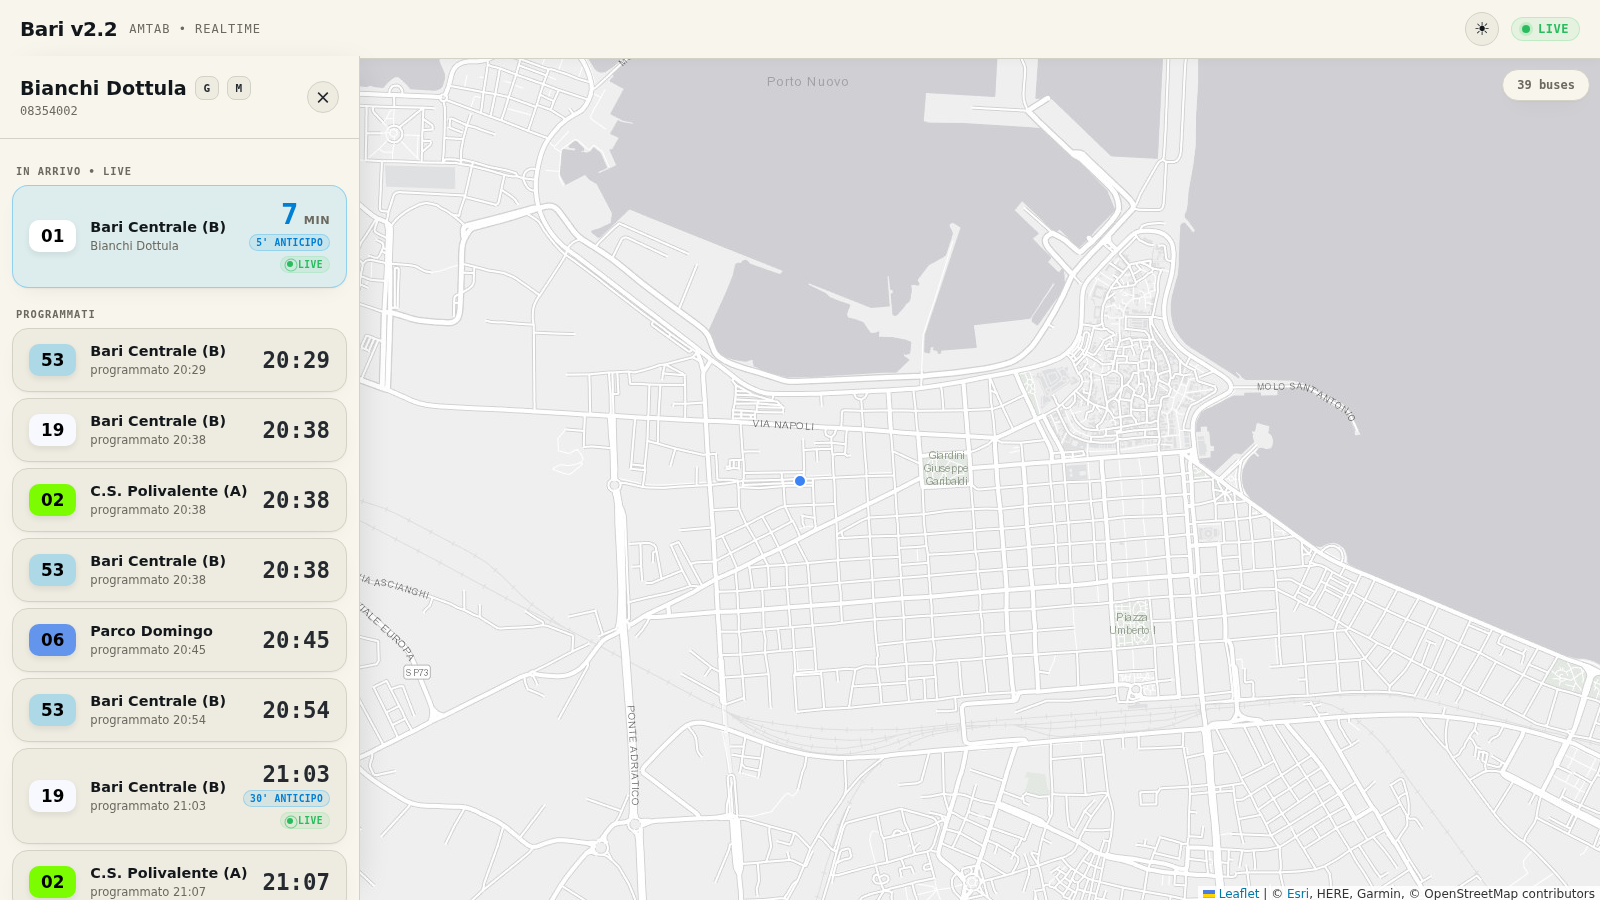
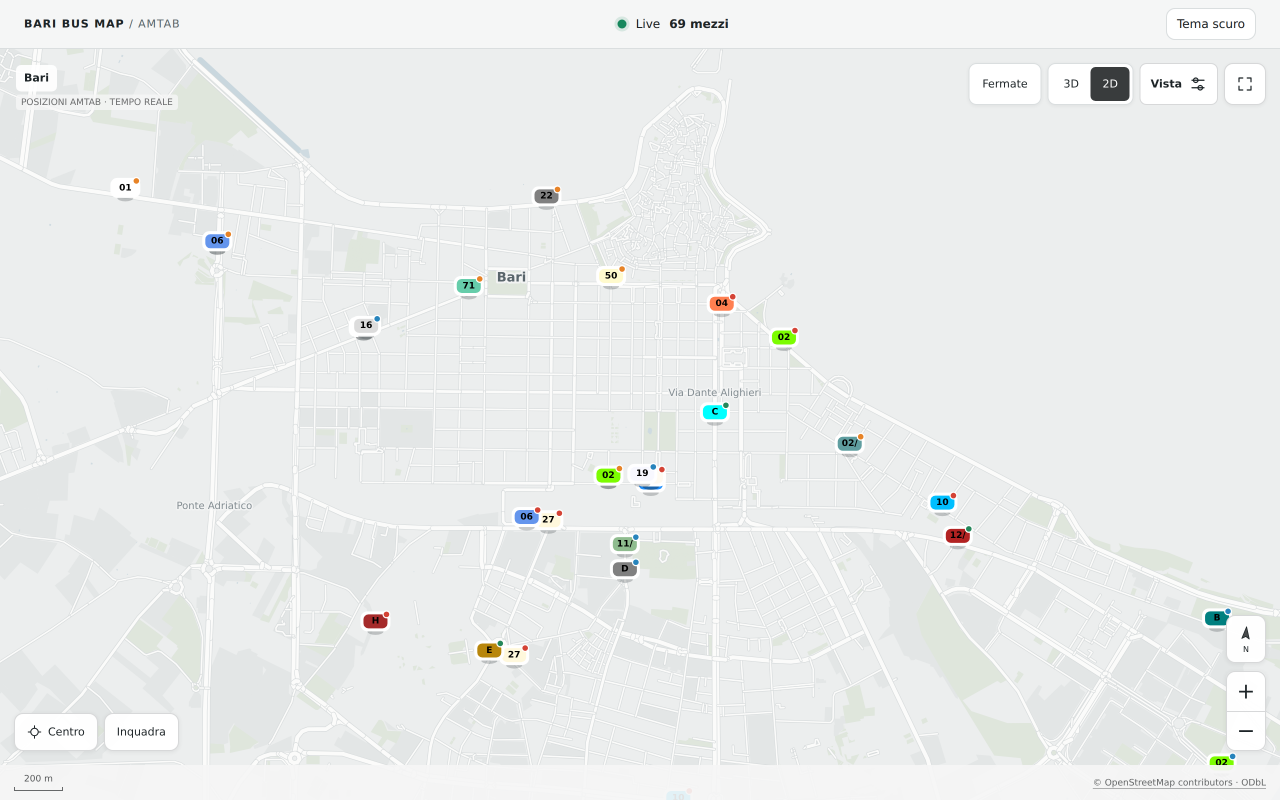
feat(map): collapse passed stops and refresh README screenshots

diff --git a/mobilita/index.html b/mobilita/index.html
@@ -2792,6 +2792,40 @@ body.live-map-mode .live-card-section {
   letter-spacing: .08em;
   text-transform: uppercase;
 }
+body.live-map-mode .live-passed-stops {
+  margin: 8px 0 2px;
+  padding: 0;
+  border: 0;
+  border-top: 1px solid var(--border);
+  background: transparent;
+}
+body.live-map-mode .live-passed-stops > summary {
+  display: flex;
+  align-items: center;
+  gap: 8px;
+  min-height: 38px;
+  padding: 8px 2px;
+  color: var(--muted);
+  font-size: 11px;
+  font-weight: 700;
+  cursor: pointer;
+  list-style: none;
+}
+body.live-map-mode .live-passed-stops > summary::-webkit-details-marker { display: none; }
+body.live-map-mode .live-passed-stops > summary::before {
+  content: "+";
+  display: inline-grid;
+  width: 17px;
+  height: 17px;
+  place-items: center;
+  border: 1px solid var(--border);
+  border-radius: 50%;
+  color: var(--ink);
+  font-size: 13px;
+  line-height: 1;
+}
+body.live-map-mode .live-passed-stops[open] > summary::before { content: "−"; }
+body.live-map-mode .live-passed-rows { opacity: .78; }
 body.live-map-mode .live-stop-row {
   display: grid;
   grid-template-columns: minmax(0, 1fr) auto;
@@ -5518,6 +5552,7 @@ let liveRoute = null, liveRouteShapeId = null, liveRouteRequest = 0, stopsVisibl
 let liveStops = [], liveStopsById = new Map(), liveStopInfo = {}, liveRouteShapes = {}, liveShapeStops = {};
 let liveEtas = {}, liveTripDelays = {}, liveStatus = {}, liveStopTimetables = new Map();
 const liveShapeCache = new Map(), liveShapePending = new Map(), liveRouteStopCache = new Map(), liveTripDetails = new Map(), liveTripTimetables = new Map(), liveTripPending = new Map();
+const expandedPastStopLists = new Set();
 function livePosition(vehicle, now = Date.now()) {
   const t = Math.max(0, Math.min(1, (now - vehicle._startedAt) / 10000));
   if (vehicle._shapePoints?.length > 1 && Number.isFinite(vehicle._fromShapeIndex) && Number.isFinite(vehicle._toShapeIndex)) {
@@ -5677,6 +5712,7 @@ function liveTripStopList(vehicle, trip) {
   let currentIndex = -1;
   const points = vehicle?._shapePoints || (shapeId && liveShapeCache.get(shapeId));
   if (vehicle && points?.length) currentIndex = closestShapeIndex(vehicle, points);
+  const currentStopIndex = vehicle ? sequence.indexOf(String(vehicle.stopId || "")) : -1;
   const routeStops = shapeId && points ? routeStopsForShape(shapeId, points) : [];
   const rows = sequence.map((stopId, index) => {
     const stop = liveStopsById.get(stopId) || { id: stopId, name: stopId, lat: NaN, lon: NaN };
@@ -5685,7 +5721,9 @@ function liveTripStopList(vehicle, trip) {
     const eta = etas[stopId]?.[String(vehicle?.rid || trip?.rid)];
     const estimate = realtime?.time != null ? formatEpochTime(realtime.time) : (eta && (!vehicle || String(eta.vid) === String(vehicle.vid ?? vehicle.id)) ? `tra ${eta.eta} min` : "—");
     const routeStop = routeStops.find((entry) => entry.stop.id === stopId);
-    const passed = vehicle && ((routeStop && currentIndex >= 0 && routeStop.pointIndex < currentIndex) || (!routeStop && vehicle.currentStopSequence != null && timetableByStop.get(stopId)?.sequence < vehicle.currentStopSequence));
+    const passed = vehicle && (currentStopIndex >= 0
+      ? index < currentStopIndex
+      : ((routeStop && currentIndex >= 0 && routeStop.pointIndex < currentIndex) || (!routeStop && vehicle.currentStopSequence != null && timetableByStop.get(stopId)?.sequence < vehicle.currentStopSequence)));
     return { stop, index, scheduled: formatGtfsTime(scheduled), estimate: passed ? "Già passata" : estimate, passed, delay: realtime?.delay ?? vehicle?.delay ?? null, eta: eta && (!vehicle || String(eta.vid) === String(vehicle.vid ?? vehicle.id)) ? eta.eta : null };
   });
   return rows;
@@ -5698,15 +5736,38 @@ function renderLiveTimeline(parent, vehicle, trip) {
     if (tid) fetchLiveTripData(tid);
     return;
   }
-  liveSection(parent, "Fermate · programmato / stimato");
-  rows.forEach((row) => {
+  const upcoming = rows.filter((row) => !row.passed);
+  const passed = rows.filter((row) => row.passed);
+  if (upcoming.length) liveSection(parent, "Prossime fermate · programmato / stimato");
+  else if (!passed.length) liveSection(parent, "Fermate · programmato / stimato");
+  const appendRow = (row, target = parent) => {
     const schedule = row.scheduled !== "—" ? `Programmato ${row.scheduled}` : "Orario programmato n/d";
     const estimate = row.estimate !== "—" ? ` · ${row.estimate}` : "";
     const detail = `${schedule}${estimate}${row.passed ? "" : delayState(row.delay) === "ontime" ? "" : ` · ${delayLabel(row.delay)}`}`;
-    liveStopRow(parent, row.stop.name, detail, row.eta != null && !row.passed ? `${row.eta} min` : (row.estimate === "Già passata" ? "Passata" : row.estimate), () => {
+    liveStopRow(target, row.stop.name, detail, row.eta != null && !row.passed ? `${row.eta} min` : (row.estimate === "Già passata" ? "Passata" : row.estimate), () => {
       if (Number.isFinite(Number(row.stop.lat)) && Number.isFinite(Number(row.stop.lon))) showLiveStop(stopPosition(row.stop));
     }, `${row.stop.name}, programmato ${row.scheduled}, stimato ${row.estimate}`, vehicle?.rid || trip?.rid);
-  });
+  };
+  upcoming.forEach((row) => appendRow(row));
+  if (passed.length) {
+    const key = tid || String(vehicle?.vid ?? vehicle?.id ?? "vehicle");
+    const disclosure = document.createElement("details");
+    disclosure.className = "live-passed-stops";
+    disclosure.open = expandedPastStopLists.has(key);
+    const summary = document.createElement("summary");
+    summary.textContent = `${disclosure.open ? "Nascondi" : "Mostra"} ${passed.length} fermate già passate`;
+    disclosure.append(summary);
+    const pastRows = document.createElement("div");
+    pastRows.className = "live-passed-rows";
+    passed.forEach((row) => appendRow(row, pastRows));
+    disclosure.append(pastRows);
+    parent.append(disclosure);
+    disclosure.addEventListener("toggle", () => {
+      summary.textContent = `${disclosure.open ? "Nascondi" : "Mostra"} ${passed.length} fermate già passate`;
+      if (disclosure.open) expandedPastStopLists.add(key);
+      else expandedPastStopLists.delete(key);
+    });
+  }
 }
 function renderLiveVehicleCard(vehicle) {
   if (!vehicle || !selectedLiveVehicle) return;
@@ -5732,8 +5793,11 @@ function renderLiveVehicleCard(vehicle) {
   } else if (vehicle.spd != null) {
     const speed = document.createElement("div"); speed.textContent = `Velocità ${Math.max(0, Number(vehicle.spd) * 3.6).toFixed(0)} km/h`; summary.append(speed);
   }
-  const list = $("live-card-stops"); list.replaceChildren();
+  const list = $("live-card-stops");
+  const scrollTop = list.scrollTop;
+  list.replaceChildren();
   renderLiveTimeline(list, vehicle, { tid: id && vehicle.tid, rid });
+  list.scrollTop = scrollTop;
   $("live-bus-card").hidden = false;
 }
 async function loadLiveStopTimetable(stopId) {

diff --git a/README.md b/README.md
@@ -7,9 +7,12 @@
 [![ESLint](https://github.com/pancake37/bari-bus-map/actions/workflows/eslint.yml/badge.svg)](https://github.com/pancake37/bari-bus-map/actions/workflows/eslint.yml)
 ![Node](https://img.shields.io/badge/node-%3E%3D18-339933?logo=node.js&logoColor=white)
 ![Dependencies](https://img.shields.io/badge/runtime%20dependencies-0-brightgreen)
-![Leaflet](https://img.shields.io/badge/frontend-Leaflet.js-199900?logo=leaflet&logoColor=white)
+![Canvas](https://img.shields.io/badge/map-Canvas%20%2B%20OpenStreetMap-168a9b)
 
-![Bari AMTAB Map Preview](assets/demo.png)
+<p align="center">
+  <img src="assets/demo.png" alt="Live AMTAB buses on the Bari map" width="49%">
+  <img src="assets/demo-bus-detail.png" alt="Selected bus with upcoming stops and collapsed past stops" width="49%">
+</p>
 
 </div>
 
@@ -17,7 +20,9 @@
 
 ## What is this?
 
-Most transit apps snap a bus to the nearest road and call it a day. This one goes further: it builds a **directed graph of every route shape**, projects each GPS ping onto it, and predicts arrival times per-segment using a blend of live speed and self-learned historical averages — all in a single dependency-free Node.js file.
+The home page shows **AMTAB buses moving live around Bari** on a lightweight Canvas map. Select a bus to see its route and stop-by-stop schedule and estimates; the next stops appear first, while past stops stay tucked away until opened. The map also lets you toggle stops and change the view.
+
+Behind the map, the server builds a **directed graph of every route shape**, projects each GPS ping onto it, and predicts arrivals using live speed and self-learned historical averages.
 
 No React. No build step. No database. Just `node server.js` and a browser tab.
 
@@ -25,9 +30,12 @@ No React. No build step. No database. Just `node server.js` and a browser tab.
 
 | | |
 |---|---|
+| **Live bus map** | Shows current AMTAB vehicle positions over an OpenStreetMap-derived base map. Selecting a bus draws its route and opens its upcoming stops and arrival estimates. |
+| **Upcoming-first stop list** | Already-passed stops are collapsed by default; open the disclosure to review them. |
+| **Map controls** | Toggle stops, switch between 2D and 3D, adjust the view, or return to the city center. The default camera is 2D, centered, at −5° rotation with full relief and base zoom. |
 | **Geometric ETA engine** | Projects each vehicle onto a directed graph of the route shape (not a straight line to the next stop) and predicts downstream arrivals segment-by-segment, blending instantaneous GPS speed with a self-learned historical average per route and time-of-day block. |
 | **Confidence-scored predictions** | Cross-checks the geometric projection against the GTFS-RT `CurrentStopSequence` field. If they disagree by more than one stop, the ETA is flagged `low` confidence in the API and shown as an estimate in the UI instead of a live pulse. |
-| **Schedule vs realtime status** | Clicking a bus shows late / early / unknown from GTFS-RT delays, with programmed vs estimated arrival per stop (nothing shown when on time — same rule as the official MyCicero portal; unknown is shown explicitly, never assumed on-time). |
+| **Schedule vs realtime status** | The bus card compares programmed and estimated arrival per stop, and shows late / early / unknown from GTFS-RT delays. |
 | **Scheduled fallback** | Stop panels list today's upcoming programmed passes (like MyCicero's "Orario dei passaggi") with a live overlay when the trip is monitored; any programmed pass opens its full trip detail ("Dettaglio corsa"). |
 | **Realtime delay history** | Trip delays are retained 15 min after a trip drops out of the feed (flagged `stale`), so badges don't flicker to unknown between polls — same as MyCicero keeping realtime per solution. |
 | **Accessible panels** | Stop cards, bus timeline rows and trip rows carry full-sentence aria-labels (line, destination, ETA, delay status) and are keyboard-operable (Enter/Space). |
@@ -35,9 +43,9 @@ No React. No build step. No database. Just `node server.js` and a browser tab.
 | **Road-snapped animation** | Buses animate along the actual route geometry between GPS updates (via waypoint interpolation), instead of cutting straight through city blocks. |
 | **Self-learning speed model** | Historical average speed per route/time-block updates online from every observed GPS ping — no offline training step, no static lookup table. |
 | **Graceful degradation** | If the AMTAB real-time feed hiccups, the server serves a 5-minute-TTL backup instead of an empty map. |
-| **Light/dark theme** | Toggles both the UI chrome and the underlying Esri Canvas basemap tiles; choice persists across sessions via `localStorage`. |
-| **Minimalist map design** | POIs stripped from the basemap in both themes, so roads/stops/vehicles stay the only thing competing for attention. |
-| **Lazy-loaded shapes** | The ~13 MB of route geometry is fetched per-route only on click, keeping cold start under 50 ms. |
+| **Light/dark theme** | Toggles the UI and Canvas map styling; choice persists across sessions via `localStorage`. |
+| **Minimalist map design** | A bundled OpenStreetMap-derived map keeps streets, stops and vehicles easy to distinguish. |
+| **On-demand route shapes** | Route shapes are fetched as needed for active buses and cached by the browser. |
 | **One-tap deep links** | Stop and vehicle panels link straight out to Google Maps / Moovit by coordinates. |
 
 ## Architecture
@@ -61,11 +69,11 @@ flowchart TB
         RT --> API
     end
 
-    subgraph Frontend["index.html — Leaflet.js, no build step"]
-        Map["Leaflet Map (light/dark toggle)"]
+    subgraph Frontend["mobilita/index.html — Canvas, no build step"]
+        Map["OpenStreetMap-derived Canvas map"]
         Markers["Road-snapped vehicle markers"]
-        Panel["Stop / Vehicle side panels"]
-        Line["Traveled / remaining route split"]
+        Panel["Bus / stop cards"]
+        Line["Selected route and upcoming stops"]
     end
 
     AMTAB["AMTAB GTFS-Realtime Feeds"] --> RT
@@ -141,8 +149,9 @@ Note: `VechiclePosition` is the spelling used by the AMTAB endpoint. Its TripUpd
 
 Static HTTP only serves:
 
-- `/` → `index.html`
-- `/assets/**` with safe image/js/css extensions
+- `/` → the Canvas live map in `mobilita/index.html`
+- `/realtime/` → the previous Leaflet interface
+- `/assets/**` and `/mobilita/**` with safe static file extensions
 
 **Not** exposed: `server.js`, `.gtfs-cache.json`, `google_transit.zip`, `data/*` observation logs, `.git/`, etc.
 
@@ -159,7 +168,7 @@ The included ZIP reader is cross-platform and uses pure JavaScript for stored an
 - **PowerShell fallback still present** — GTFS ZIP extraction is pure-JS first (works on any OS), with an `unzip` CLI fallback, and `PowerShell Expand-Archive` only as a last resort on Windows if both prior methods fail on an unusual archive. It's dead code on Linux/macOS and should trigger a proper error report if it's ever hit.
 - **In-memory state only** — vehicle/ETA caches live in process memory; running multiple server instances behind a load balancer will give each instance a different view of historical speeds.
 - **No authentication or rate limiting** on the API — fine for local/single-user use, not yet hardened for public multi-tenant deployment.
-- **Client map tiles** load from Esri Canvas basemaps (network required for basemap).
+- **The home page base map** is bundled from OpenStreetMap-derived data. The legacy `/realtime/` page still loads Esri Canvas tiles from the network.
 - **OTP dashboard** is available as JSON API only (no dedicated UI).
 
 ## Roadmap
@@ -172,11 +181,14 @@ The included ZIP reader is cross-platform and uses pure JavaScript for stored an
 
 ```
 server.js           HTTP + GTFS + ETA + OTP
-index.html          Leaflet UI, light/dark theme, road-snapped animation
+mobilita/index.html Canvas live map, bus cards, stop list and map controls
+mobilita/cities/    Bundled Bari map data
+index.html          Previous Leaflet interface, available at /realtime/
 lib/csv.js          CSV line parser
 lib/zip.js          ZIP extract (JS-first, with CLI/PowerShell fallbacks)
 lib/calendar.js     Service-calendar logic (timezone-aware, calendar_dates-only feeds)
-assets/vendor/      Leaflet + MovingMarker (pinned to a specific commit) + marker icons
+assets/vendor/      Leaflet + MovingMarker (previous interface) + marker icons
+assets/demo*.png    README screenshots
 assets/favicon.svg  Favicon
 data/               hist speeds + observation logs (gitignored)
 test/               node:test suite (calendar, csv, zip)
